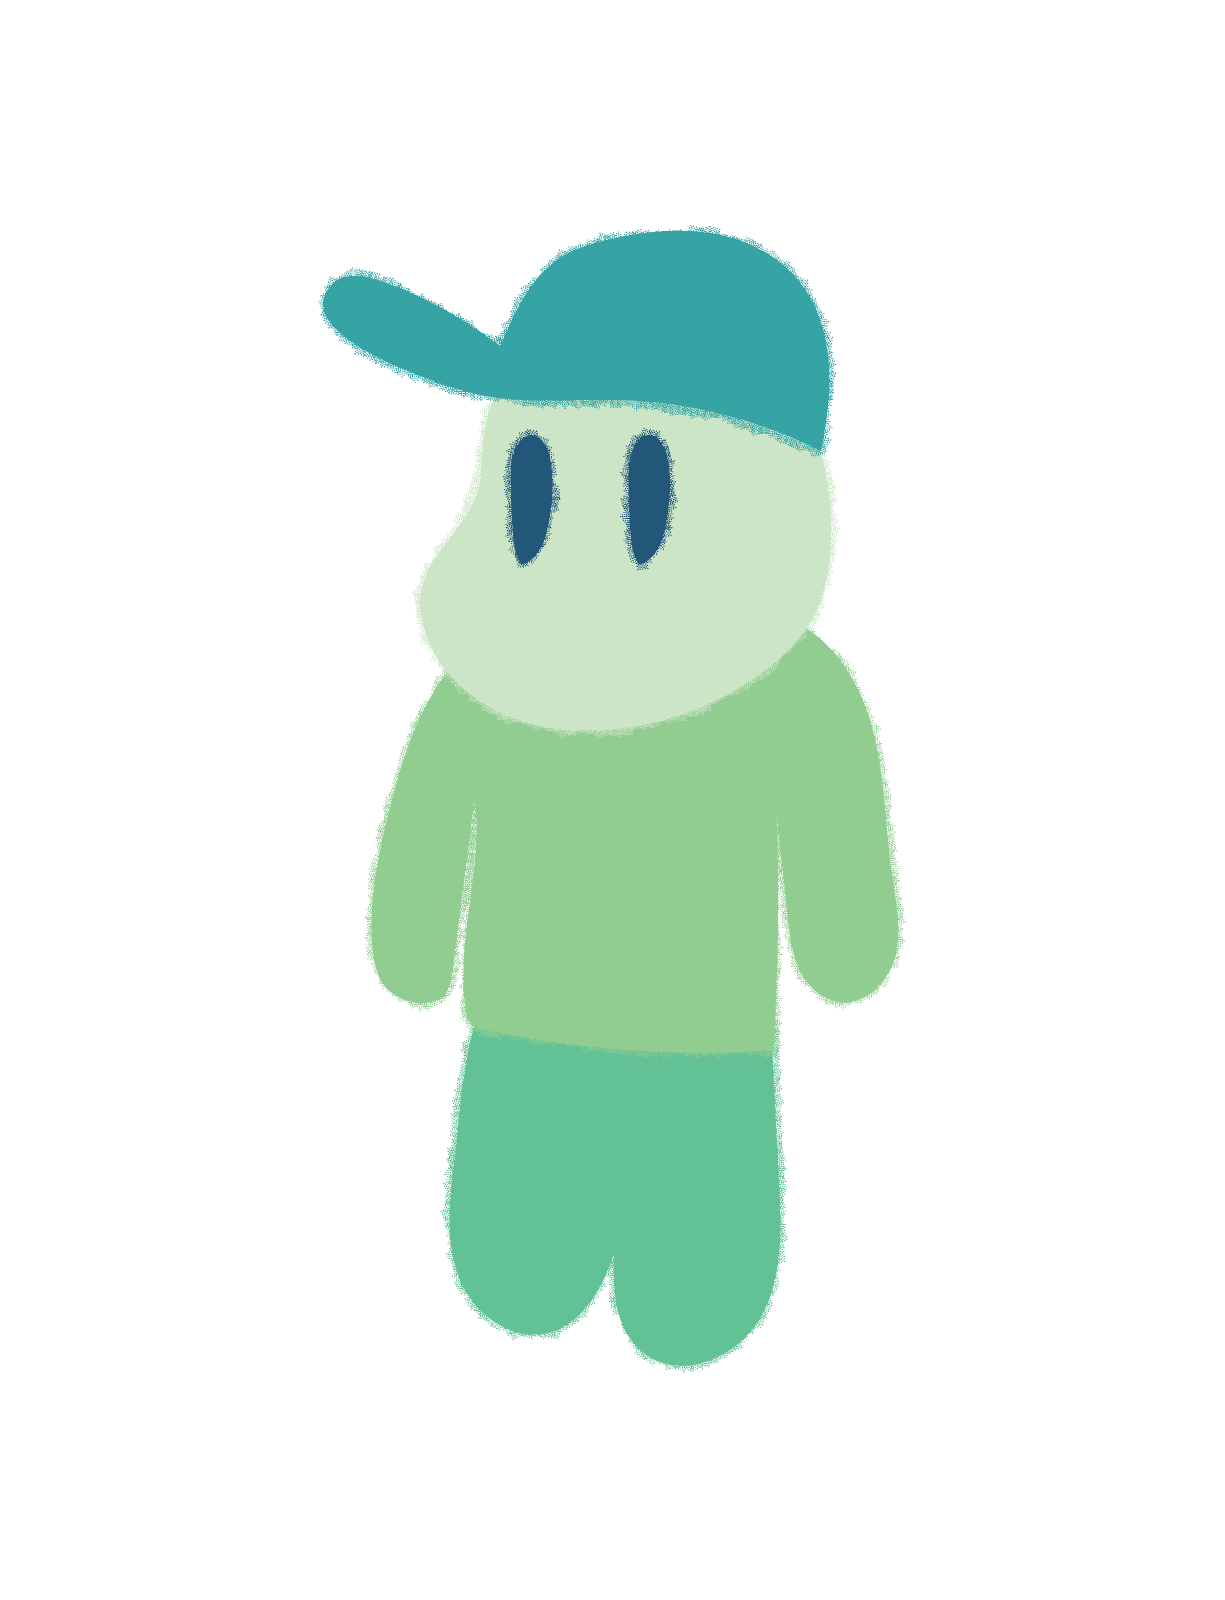
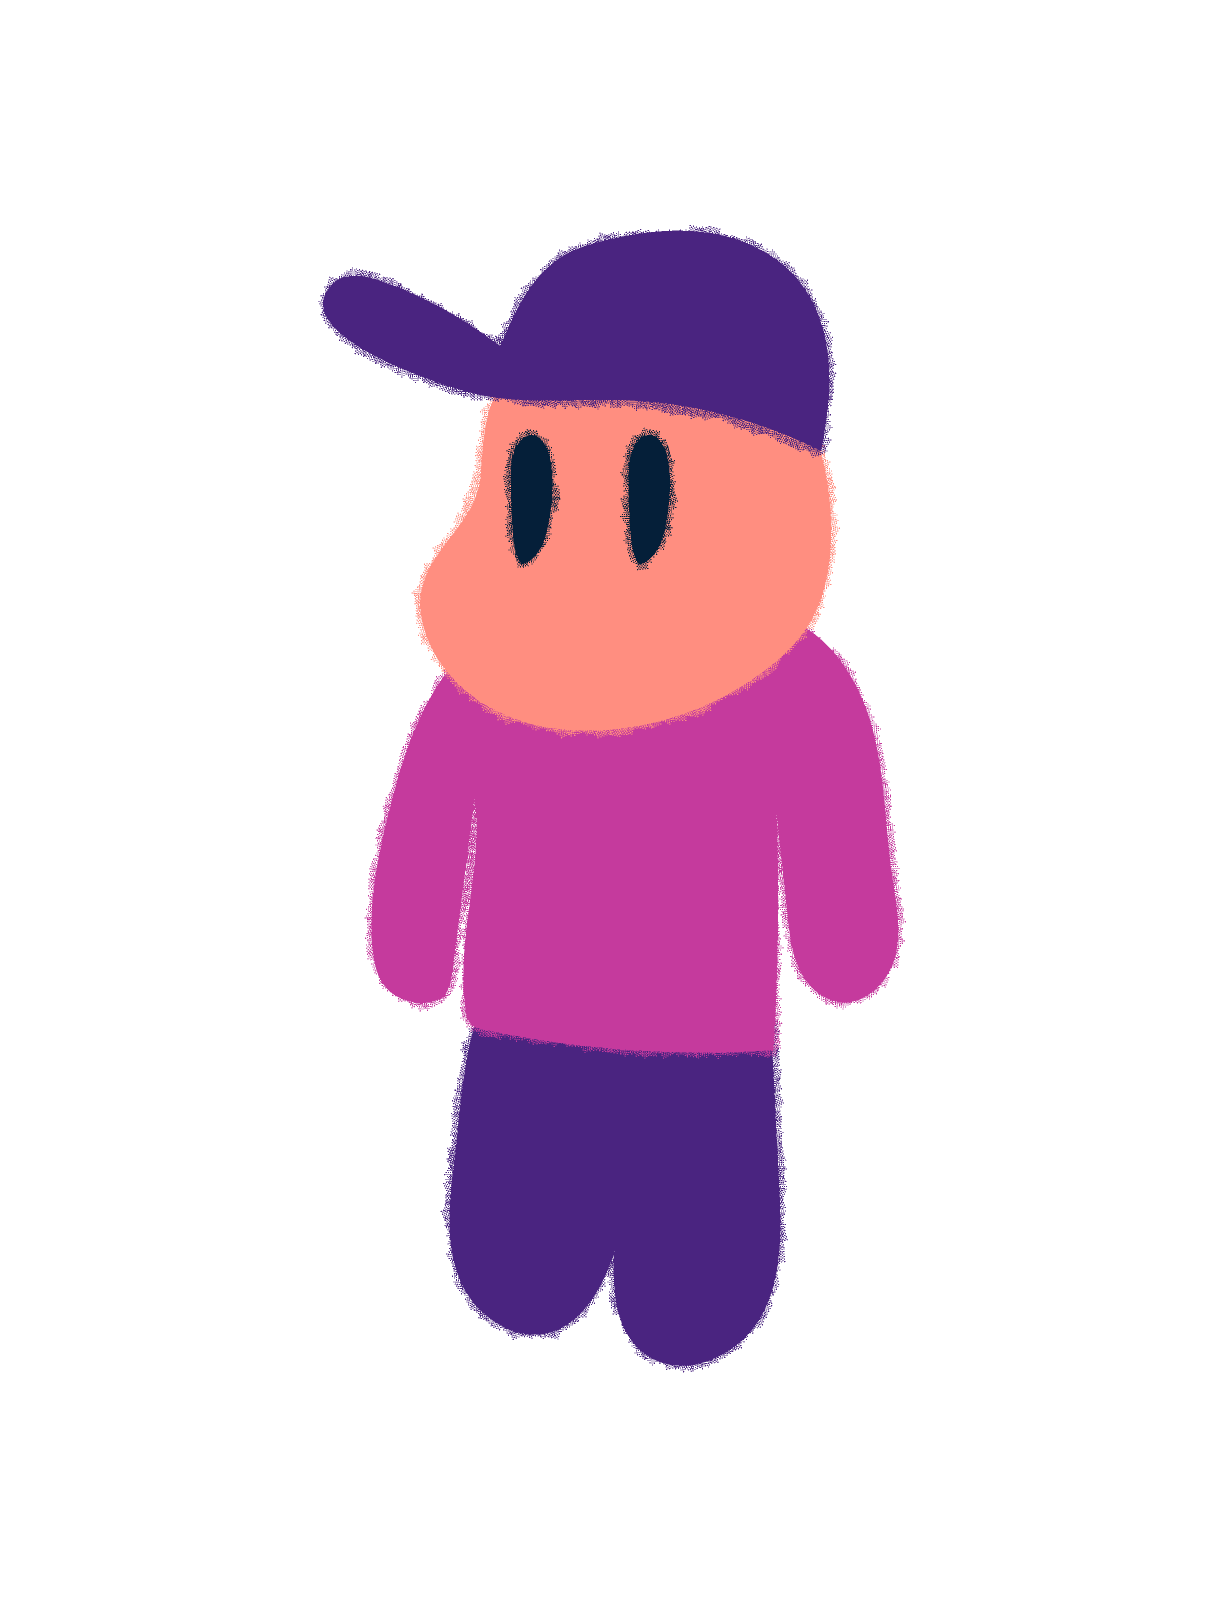
add updated graphics

Changed region(s): [[0.2482, 0.125, 0.7445, 0.875]]

diff --git a/src/data/images.js b/src/data/images.js
@@ -4,6 +4,9 @@ import npcDotti from "../assets/npc-public-dotti.png"
 import npcFab from "../assets/npc-public-fab.png"
 import npcFred from "../assets/npc-public-fred.png"
 import npcWonda from "../assets/npc-public-wonda.png"
+import npcBeardKing from "../assets/npc-public-bk.png"
+import npcWinry from "../assets/npc-public-winry.png"
+import npcOscar from "../assets/npc-public-oscar.png"
 
 const images = {
   biggy: { src: npcBiggy, scale: 0.1 },
@@ -12,6 +15,9 @@ const images = {
   fab: { src: npcFab, scale: 0.1 },
   fred: { src: npcFred, scale: 0.1 },
   wonda: { src: npcWonda, scale: 0.1 },
+  bk: { src: npcBeardKing, scale: 0.1 },
+  winry: { src: npcWinry, scale: 0.1 },
+  oscar: { src: npcOscar, scale: 0.1 },
 }
 
 export default images

diff --git a/src/components/Interactable.jsx b/src/components/Interactable.jsx
@@ -5,7 +5,7 @@ import npcs from "../data/npcs"
 import useGame from "../hooks/useGame"
 
 const Interactable = ({ x, y, height, width, name = "wonda" }) => {
-  const { setCurrentText, currentScene } = useGame()
+  const { setCurrentText } = useGame()
   const spriteRef = useRef(null)
 
   const [texture, setTexture] = useState(Texture.EMPTY)
@@ -50,7 +50,7 @@ const Interactable = ({ x, y, height, width, name = "wonda" }) => {
       onPointerOver={onPointerOver}
       onPointerOut={onPointerOut}
       scale={isActive && isHovered ? scale.hover : scale.default}
-      tint={isHovered ? 0x00ffff : 0xffffff}
+      tint={isHovered ? 0xff00ff : 0xffffff}
       texture={texture}
       height={height}
       width={width}

diff --git a/src/data/npcs.js b/src/data/npcs.js
@@ -5,6 +5,9 @@ export const npcs = {
   fab: { name: "Fab", initialGreeting: "I can't find a good hot dog stand!" },
   fred: { name: "Fred", initialGreeting: "..." },
   wonda: { name: "Wonda", initialGreeting: "Oh... not today." },
+  bk: { name: "BK", initialGreeting: "I'm the Beard King!" },
+  winry: { name: "Winry", initialGreeting: "GrrRrRrRrr" },
+  oscar: { name: "Oscar", initialGreeting: "MUSTARD." },
 }
 
 export default npcs

diff --git a/src/data/scenes.js b/src/data/scenes.js
@@ -47,6 +47,27 @@ const scenes = {
       },
     ],
   },
+  scene4: {
+    name: "Beard King Castle",
+    defaultText: "This is the Beard King's castle.",
+    npcs: [
+      {
+        name: "bk",
+        x: 700,
+        y: 200,
+      },
+      {
+        name: "winry",
+        x: 400,
+        y: 100,
+      },
+      {
+        name: "oscar",
+        x: 100,
+        y: 200,
+      },
+    ],
+  },
 }
 
 export default scenes

diff --git a/src/components/GameView.jsx b/src/components/GameView.jsx
@@ -18,7 +18,7 @@ const GameView = () => {
     >
       <Application
         resizeTo={divRef}
-        backgroundColor={0x006666}
+        backgroundColor={0x051f39}
       >
         <Scene />
       </Application>
